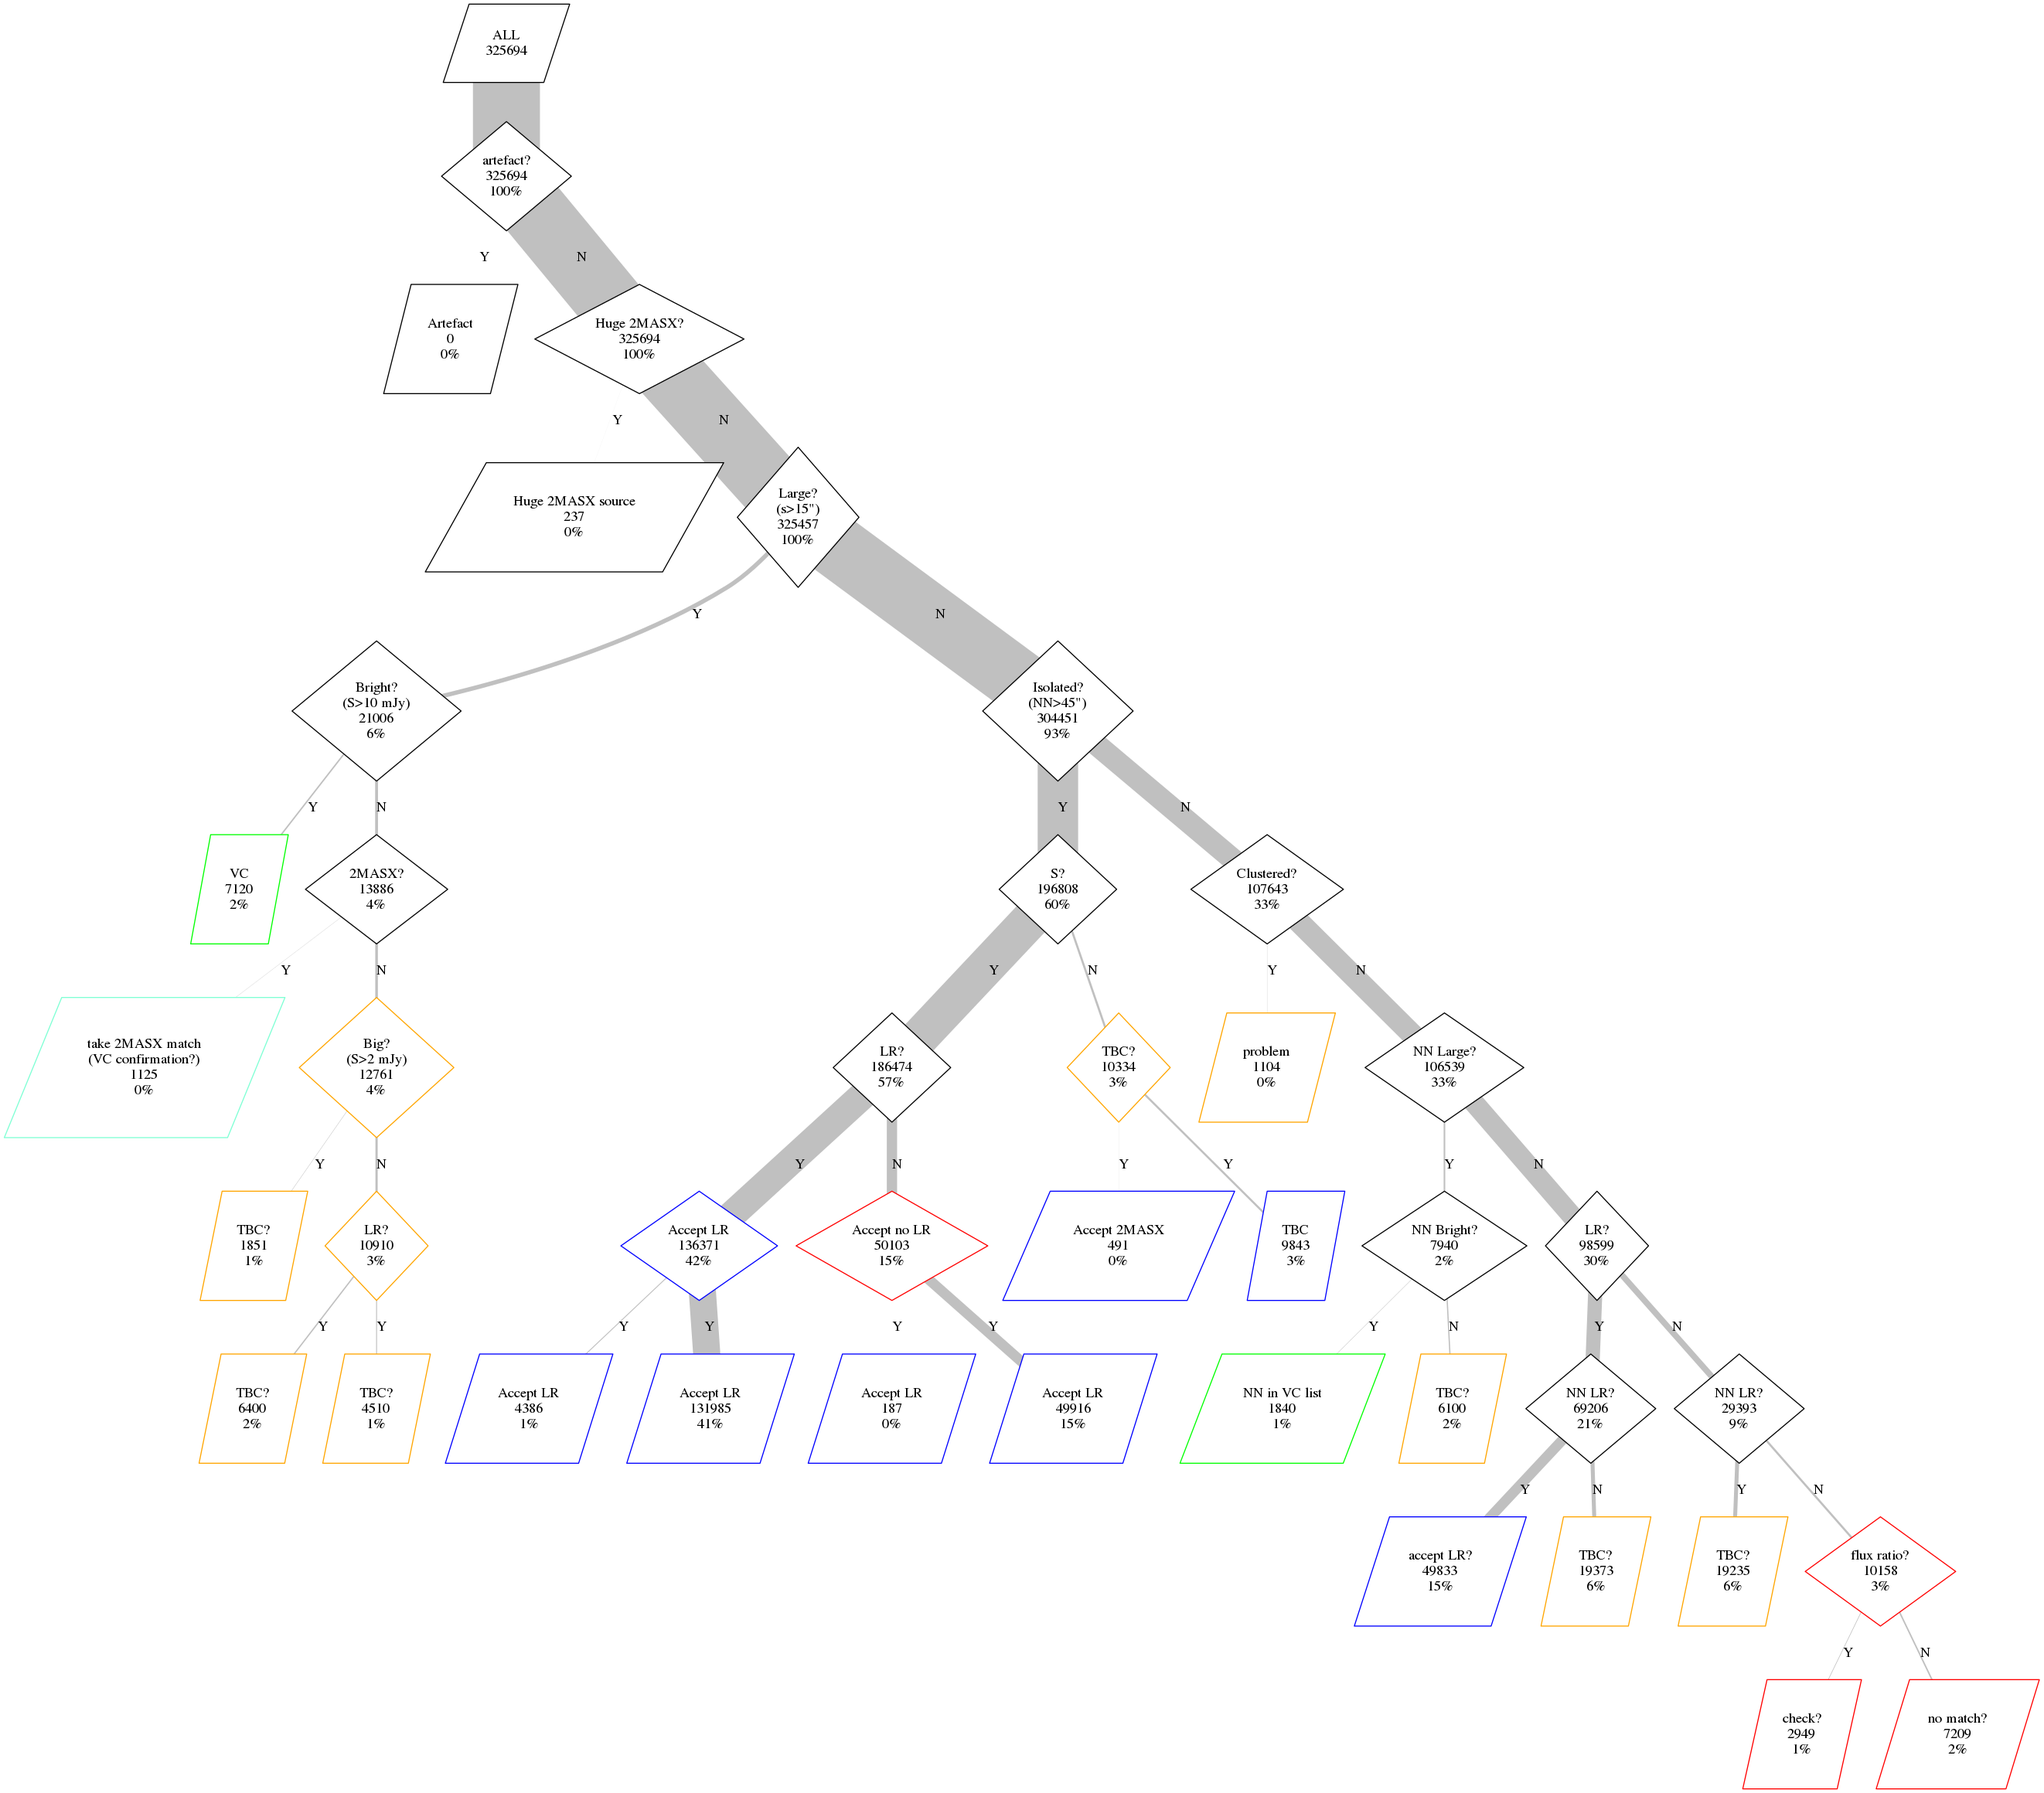
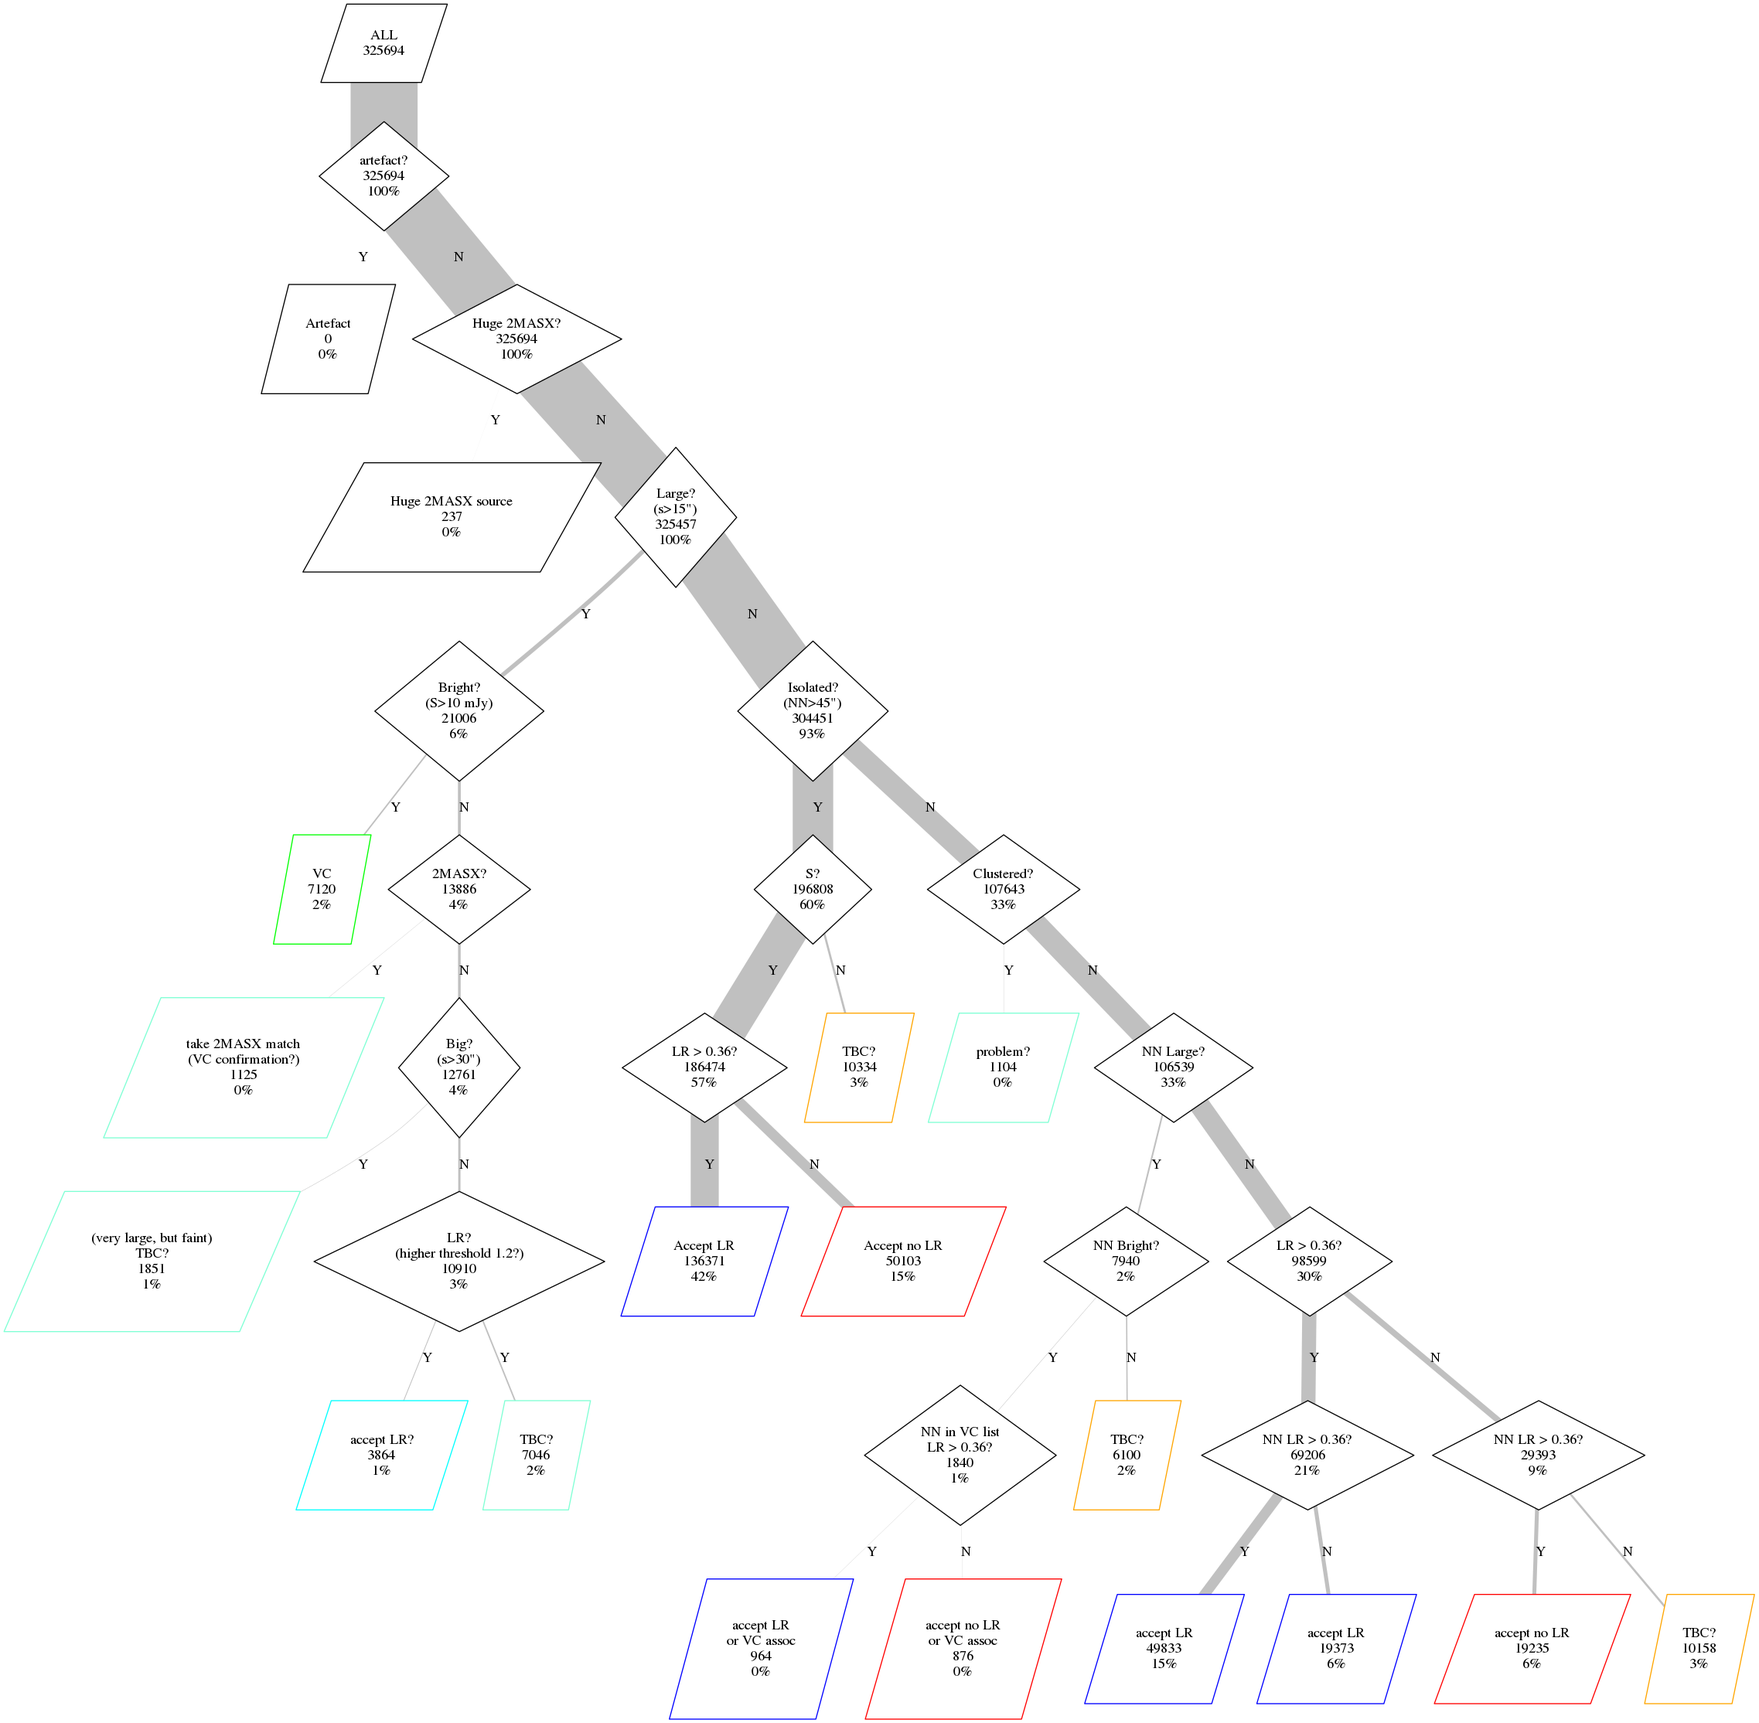
tidy flowchart

diff --git a/lofar_source_sorter.py b/lofar_source_sorter.py
@@ -311,7 +311,7 @@ if __name__=='__main__':
     size_huge = 25.            # in arcsec
     #separation1 = 30.          # in arcsec
     lLR_thresh = 0.36            # LR threshold
-    lLR_thresh = 1.2            # LR threshold - stricter
+    lLR_thresh2 = 1.2            # LR threshold - stricter
     fluxcut = 10               # in mJy
     fluxcut2 = 2.5               # in mJy
 
@@ -437,10 +437,10 @@ if __name__=='__main__':
                         #masterlist=masterlist)
 
     M_large_faint_n2masx = M_large_faint.submask(~lofarcat['2MASX'],
-                        'large (s>{s:.0f}") & !2MASX'.format(f=fluxcut2, s=size_large),
+                        'large (s>{s:.0f}") & !2MASX'.format(s=size_large),
                         'n2masx',
                         edgelabel='N',
-                        qlabel='Big?\n(S>{f:.0f} mJy)'.format(f=fluxcut2, s=2*size_large),
+                        qlabel='Big?\n(s>{s:.0f}")'.format(s=2*size_large),
                         masterlist=masterlist)
 
 
@@ -450,18 +450,18 @@ if __name__=='__main__':
                         'huge',
                         edgelabel='Y',
                         qlabel='(very large, but faint)\nTBC?',
-                        color='orange',
+                        color='aquamarine',
                         masterlist=masterlist)
     # large faint 
     M_large_faint_n2masx_nhuge = M_large_faint_n2masx.submask(lofarcat['Maj'] <= 2*size_large,
                         'large (s>{s:.0f}") & not v faint (S>{f:.0f} mJy)'.format(f=fluxcut2, s=2*size_large),
                         'nhuge',
                         edgelabel='N',
-                        qlabel='LR?\n(higher threshold?)',
+                        qlabel='LR?\n(higher threshold {l:0.1f}?)'.format(l=lLR_thresh2),
                         #color='orange',
                         masterlist=masterlist)
 
-    M_large_faint_n2masx_nhuge_lr = M_large_faint_n2masx_nhuge.submask(np.log10(1+lofarcat['LR']) > lLR_thresh,
+    M_large_faint_n2masx_nhuge_lr = M_large_faint_n2masx_nhuge.submask(np.log10(1+lofarcat['LR']) > lLR_thresh2,
                         'LR'.format(f=fluxcut2, s=2*size_large),
                         'lr',
                         edgelabel='Y',
@@ -469,12 +469,12 @@ if __name__=='__main__':
                         color='cyan',
                         masterlist=masterlist)
 
-    M_large_faint_n2masx_nhuge_nlr = M_large_faint_n2masx_nhuge.submask(np.log10(1+lofarcat['LR']) <= lLR_thresh,
+    M_large_faint_n2masx_nhuge_nlr = M_large_faint_n2masx_nhuge.submask(np.log10(1+lofarcat['LR']) <= lLR_thresh2,
                         'NLR'.format(f=fluxcut2, s=2*size_large),
                         'nlr',
                         edgelabel='Y',
                         qlabel='TBC?',
-                        color='orange',
+                        color='aquamarine',
                         masterlist=masterlist)
 
 
@@ -497,7 +497,7 @@ if __name__=='__main__':
     M_small_isol_S = M_small_isol.submask(lofarcat['S_Code'] == 'S',
                         'compact isolated (s<{s:.0f}", NN>{nn:.0f}") S'.format(s=size_large, nn=separation1),
                         'S',
-                        qlabel='LR?',
+                        qlabel='LR > {l:.2f}?'.format(l=lLR_thresh),
                         masterlist=masterlist)
 
 
@@ -607,8 +607,8 @@ if __name__=='__main__':
                         'compact not isolated (s<{s:.0f}", NN5<{nn:.0f}")'.format(s=size_large, nn=separation1),
                         'clustered',
                         edgelabel='Y',
-                        qlabel='problem',
-                        color='orange',
+                        qlabel='problem?',
+                        color='aquamarine',
                         masterlist=masterlist)
 
     M_small_nisol_nclustered = M_small_nisol.submask(lofarcat['NN5_sep'] > separation1,
@@ -628,14 +628,33 @@ if __name__=='__main__':
                         masterlist=masterlist)
 
 
-    # compact not isolated, nnlarge
+    # compact not isolated, nnlarge, nnbright
     M_small_nisol_nclustered_NNlarge_NNbright = M_small_nisol_nclustered_NNlarge.submask(lofarcat['NN_Total_flux'] > fluxcut,
                         'compact not isolated (s<{s:.0f}", NN<{nn:.0f}") NN large (s>{s:.0f}") NN bright (S>{f:.0f} mJy)'.format(s=size_large, nn=separation1, f=fluxcut),
                         'NNbright',
                         edgelabel='Y',
-                        color='green',
-                        qlabel='NN in VC list',
+                        #color='green',
+                        qlabel='NN in VC list\nLR > {l:.2f}?'.format(l=lLR_thresh),
                         masterlist=masterlist)
+
+    # compact not isolated, nnlarge, nnbright
+    M_small_nisol_nclustered_NNlarge_NNbright_lr = M_small_nisol_nclustered_NNlarge_NNbright.submask(np.log10(1+lofarcat['LR']) > lLR_thresh,
+                        'compact not isolated (s<{s:.0f}", NN<{nn:.0f}") NN large (s>{s:.0f}") NN bright (S>{f:.0f} mJy)'.format(s=size_large, nn=separation1, f=fluxcut),
+                        'lr',
+                        edgelabel='Y',
+                        color='blue',
+                        qlabel='accept LR\nor VC assoc',
+                        masterlist=masterlist)
+
+    # compact not isolated, nnlarge, nnbright
+    M_small_nisol_nclustered_NNlarge_NNbright_nlr = M_small_nisol_nclustered_NNlarge_NNbright.submask(np.log10(1+lofarcat['LR']) <= lLR_thresh,
+                        'compact not isolated (s<{s:.0f}", NN<{nn:.0f}") NN large (s>{s:.0f}") NN bright (S>{f:.0f} mJy)'.format(s=size_large, nn=separation1, f=fluxcut),
+                        'nlr',
+                        edgelabel='N',
+                        color='red',
+                        qlabel='accept no LR\nor VC assoc',
+                        masterlist=masterlist)
+
 
     # compact not isolated, nnlarge
     M_small_nisol_nclustered_NNlarge_NNfaint = M_small_nisol_nclustered_NNlarge.submask(lofarcat['NN_Total_flux'] <= fluxcut,
@@ -652,7 +671,7 @@ if __name__=='__main__':
                         'compact not isolated (s<{s:.0f}", NN<{nn:.0f}") NN small (s<={s:.0f}")'.format(s=size_large, nn=separation1),
                         'NNsmall',
                         edgelabel='N',
-                        qlabel='LR?',
+                        qlabel='LR > {l:.2f}?'.format(l=lLR_thresh),
                         masterlist=masterlist)
 
     # compact not isolated, nnsmall, lr
@@ -660,7 +679,7 @@ if __name__=='__main__':
                         'compact not isolated (s<{s:.0f}", NN<{nn:.0f}") NN small (s<={s:.0f}"), good LR'.format(s=size_large, nn=separation1),
                         'lr',
                         edgelabel='Y',
-                        qlabel='NN LR?',
+                        qlabel='NN LR > {l:.2f}?'.format(l=lLR_thresh),
                         masterlist=masterlist)
 
     # compact not isolated, nnsmall, lr, NNlr
@@ -686,7 +705,7 @@ if __name__=='__main__':
                         'compact not isolated (s<{s:.0f}", NN<{nn:.0f}") NN small (s<={s:.0f}"), bad LR'.format(s=size_large, nn=separation1),
                         'nlr',
                         edgelabel='N',
-                        qlabel='NN LR?',
+                        qlabel='NN LR > {l:.2f}?'.format(l=lLR_thresh),
                         masterlist=masterlist)
 
     # compact not isolated, nnsmall, nlr, NNlr
